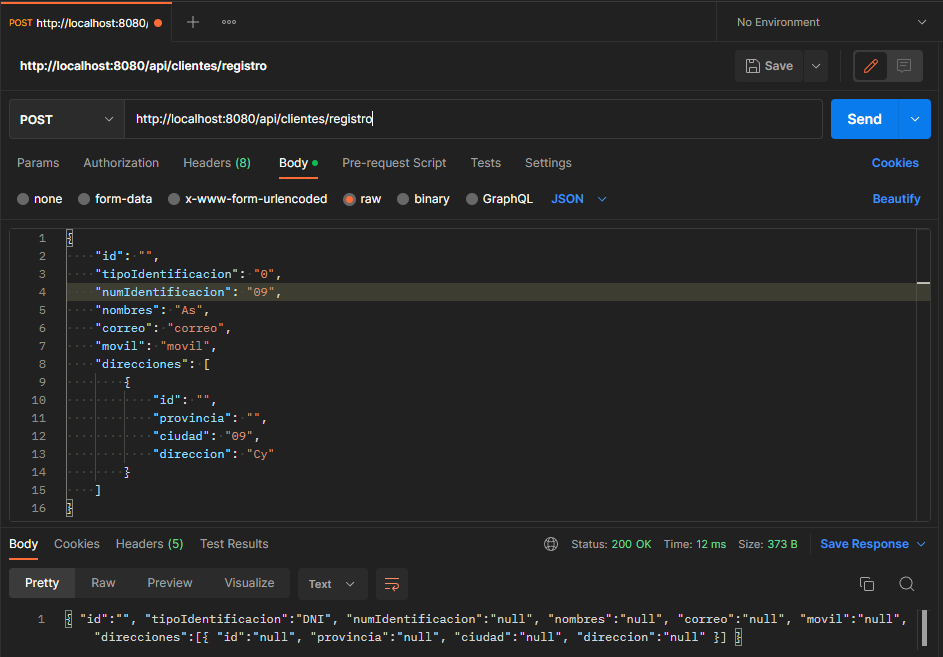
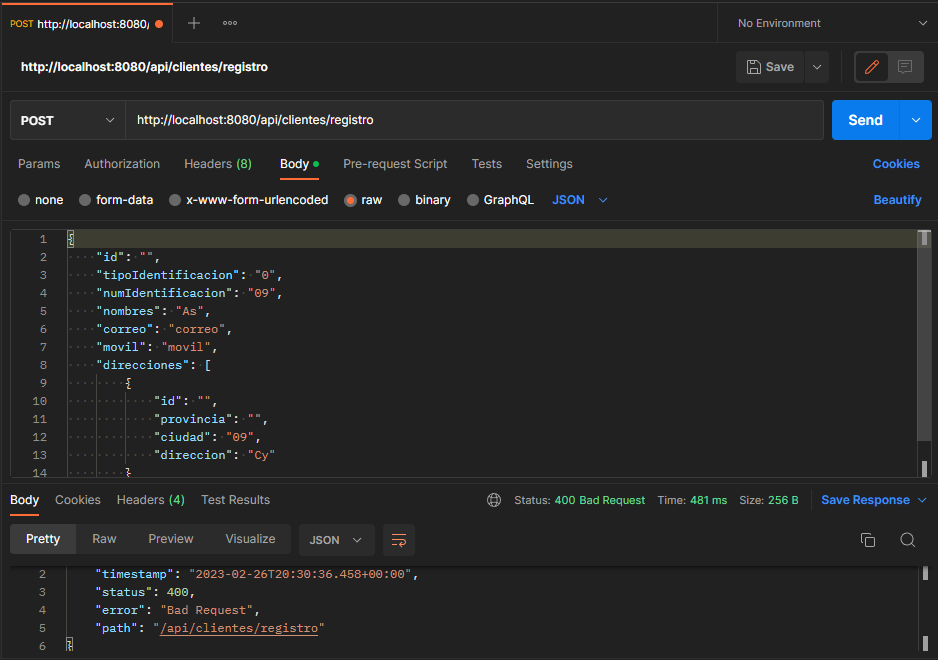
fix: StatusResponse for InvalidInputs

diff --git a/src/main/java/com/minegocio/app/ClienteController.java b/src/main/java/com/minegocio/app/ClienteController.java
@@ -37,10 +37,10 @@ public class ClienteController {
             if (cliente.isValid() && cliente.getDirecciones().get(0).isValid()) {
                 CrearCliente usecase = new CrearCliente();
                 response = "msg: " + usecase.guardarCuentaCreada(cliente, persistenciaCuenta);
+                return response;
             } else
-                response = cliente.toString();
+                throw new ResponseStatusException(HttpStatus.BAD_REQUEST, cliente.toString());
 
-            return response;
         } catch (DataIntegrityViolationException e) {
             System.err.println(e);
             throw new ResponseStatusException(HttpStatus.SEE_OTHER, "Duplicado");
@@ -67,10 +67,10 @@ public class ClienteController {
                 ActualizarCliente usecase = new ActualizarCliente();
                 cliente.setId(String.valueOf(id));
                 response = usecase.actualizarCuenta(cliente, persistenciaCuenta).toString();
+                return response;
             } else
-                response = cliente.toString();
+                throw new ResponseStatusException(HttpStatus.BAD_REQUEST, cliente.toString());
 
-            return response;
         } catch (Exception e) {
             System.err.println(e);
             throw new ResponseStatusException(HttpStatus.INTERNAL_SERVER_ERROR);
@@ -99,10 +99,10 @@ public class ClienteController {
                 Cliente cliente = new Cliente();
                 cliente.setId(String.valueOf(id));
                 response = usecase.registrarNuevaDireccion(cliente, direccion, persistenciaCuenta).toString();
+                return response;
             } else
-                response = direccion.toString();
+                throw new ResponseStatusException(HttpStatus.BAD_REQUEST, direccion.toString());
 
-            return response;
         } catch (Exception e) {
             System.err.println(e);
             throw new ResponseStatusException(HttpStatus.INTERNAL_SERVER_ERROR);
